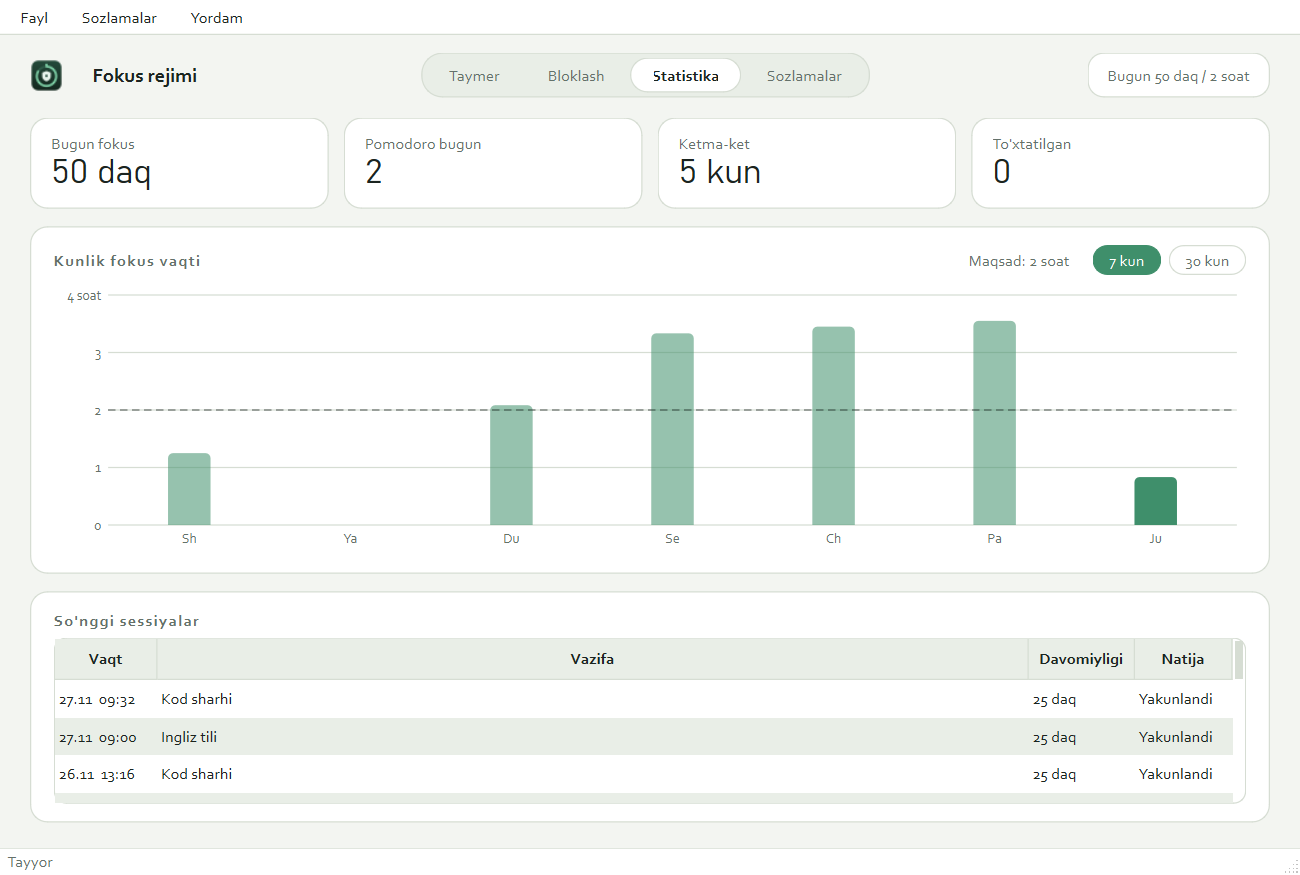
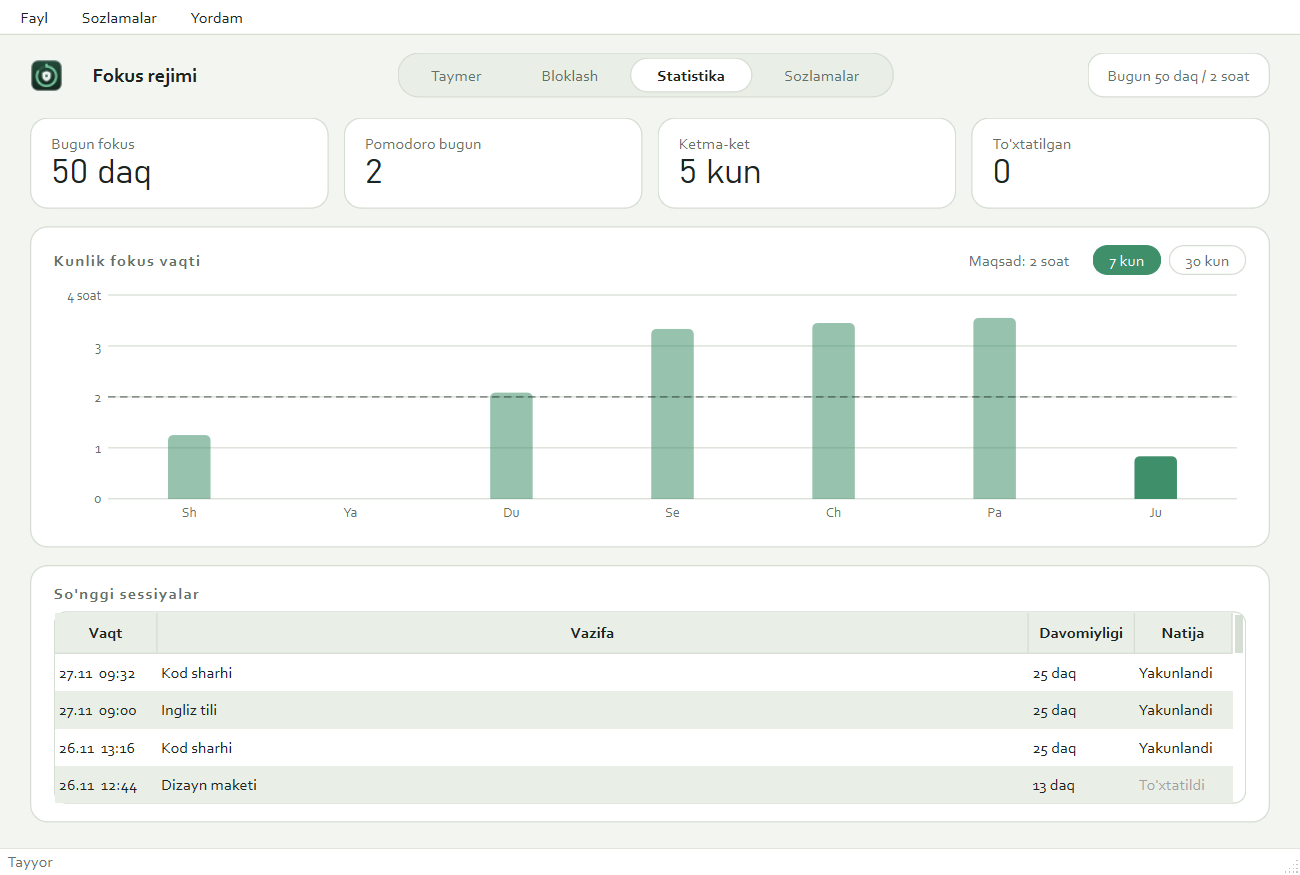
Fokus rejimi v1.0.0

diff --git a/fokus_rejimi/pages.py b/fokus_rejimi/pages.py
@@ -565,7 +565,7 @@ class StatsPage(QWidget):
         cl.addLayout(head)
         self.chart = BarChart()
         cl.addWidget(self.chart, 1)
-        root.addWidget(chart_p, 3)
+        root.addWidget(chart_p, 5)
 
         tp = panel()
         tl = QVBoxLayout(tp)
@@ -587,7 +587,8 @@ class StatsPage(QWidget):
         tl.addWidget(self.table, 1)
         self.empty = muted(tr("stats_empty"))
         tl.addWidget(self.empty)
-        root.addWidget(tp, 2)
+        tp.setMinimumHeight(170)
+        root.addWidget(tp, 4)
         self.b7.clicked.connect(lambda: self._set_days(7))
         self.b30.clicked.connect(lambda: self._set_days(30))
 
@@ -647,6 +648,7 @@ class SettingsPage(QScrollArea):
         cfg = win.cfg
         self.setWidgetResizable(True)
         self.setFrameShape(QFrame.NoFrame)
+        self.setHorizontalScrollBarPolicy(Qt.ScrollBarAlwaysOff)
         body = QWidget()
         body.setObjectName("ScrollBody")
         self.setWidget(body)
@@ -708,7 +710,7 @@ class SettingsPage(QScrollArea):
         self.strict.setChecked(bool(cfg["strict"]))
         f2.addRow(self.strict)
         self.phrase = QLineEdit(cfg["strict_phrase"] or tr("default_phrase"))
-        self.phrase.setMinimumWidth(260)
+        self.phrase.setMinimumWidth(200)
         self._row(f2, tr("phrase"), self.phrase)
         f2.addRow(muted(tr("strict_explain")))
         grid.addWidget(p2, 0, 1)

diff --git a/fokus_rejimi/ui.py b/fokus_rejimi/ui.py
@@ -94,6 +94,10 @@ class Segmented(QFrame):
             b.setObjectName("SegButton")
             b.setCheckable(True)
             b.setCursor(Qt.PointingHandCursor)
+            bf = QFont(b.font())
+            bf.setBold(True)
+            from PySide6.QtGui import QFontMetrics
+            b.setMinimumWidth(QFontMetrics(bf).horizontalAdvance(t) + 44)
             self.group.addButton(b, i)
             lay.addWidget(b)
             self.buttons.append(b)
@@ -259,7 +263,7 @@ class BarChart(QWidget):
         self.highlight_last = True
         self.empty_text = ""
         self.unit = ""
-        self.setMinimumHeight(180)
+        self.setMinimumHeight(130)
         self.setMouseTracking(True)
         self._bars: List[Tuple[QRectF, str]] = []
 

diff --git a/README.md b/README.md
@@ -40,7 +40,7 @@ Pomodoro taymeri: fokus va tanaffuslarni boshqaradi, ish vaqtida chalg'ituvchi d
 ## O'rnatish
 
 1. [**FokusRejimi.exe**](https://github.com/eduhakimov/fokus-rejimi/releases/latest/download/FokusRejimi.exe) faylini yuklab oling.
-2. Faylni ishga tushiring — o'rnatish shart emas.
+2. Faylni ishga tushiring, o'rnatish shart emas.
 3. Windows SmartScreen ogohlantirsa: **Batafsil → Baribir ishga tushirish**.
 
 **Tizim talablari:** Windows 10 (1809+) / Windows 11, x64
@@ -77,7 +77,7 @@ A Pomodoro timer that alternates focus and breaks, blocks distracting apps and w
 
 ## Muallif / Author
 
-**Bahtiyorjon Hakimov** (Hakimov Bahtiyorjon Muzaffar o'g'li) — [github.com/eduhakimov](https://github.com/eduhakimov)
+**Bahtiyorjon Hakimov** (Hakimov Bahtiyorjon Muzaffar o'g'li), [github.com/eduhakimov](https://github.com/eduhakimov)
 
 © 2026 Bahtiyorjon Hakimov. Barcha huquqlar himoyalangan. / Все права защищены. / All rights reserved.
 Batafsil: [LICENSE](LICENSE) · Uchinchi tomon komponentlari: [THIRD_PARTY_NOTICES.md](THIRD_PARTY_NOTICES.md)
